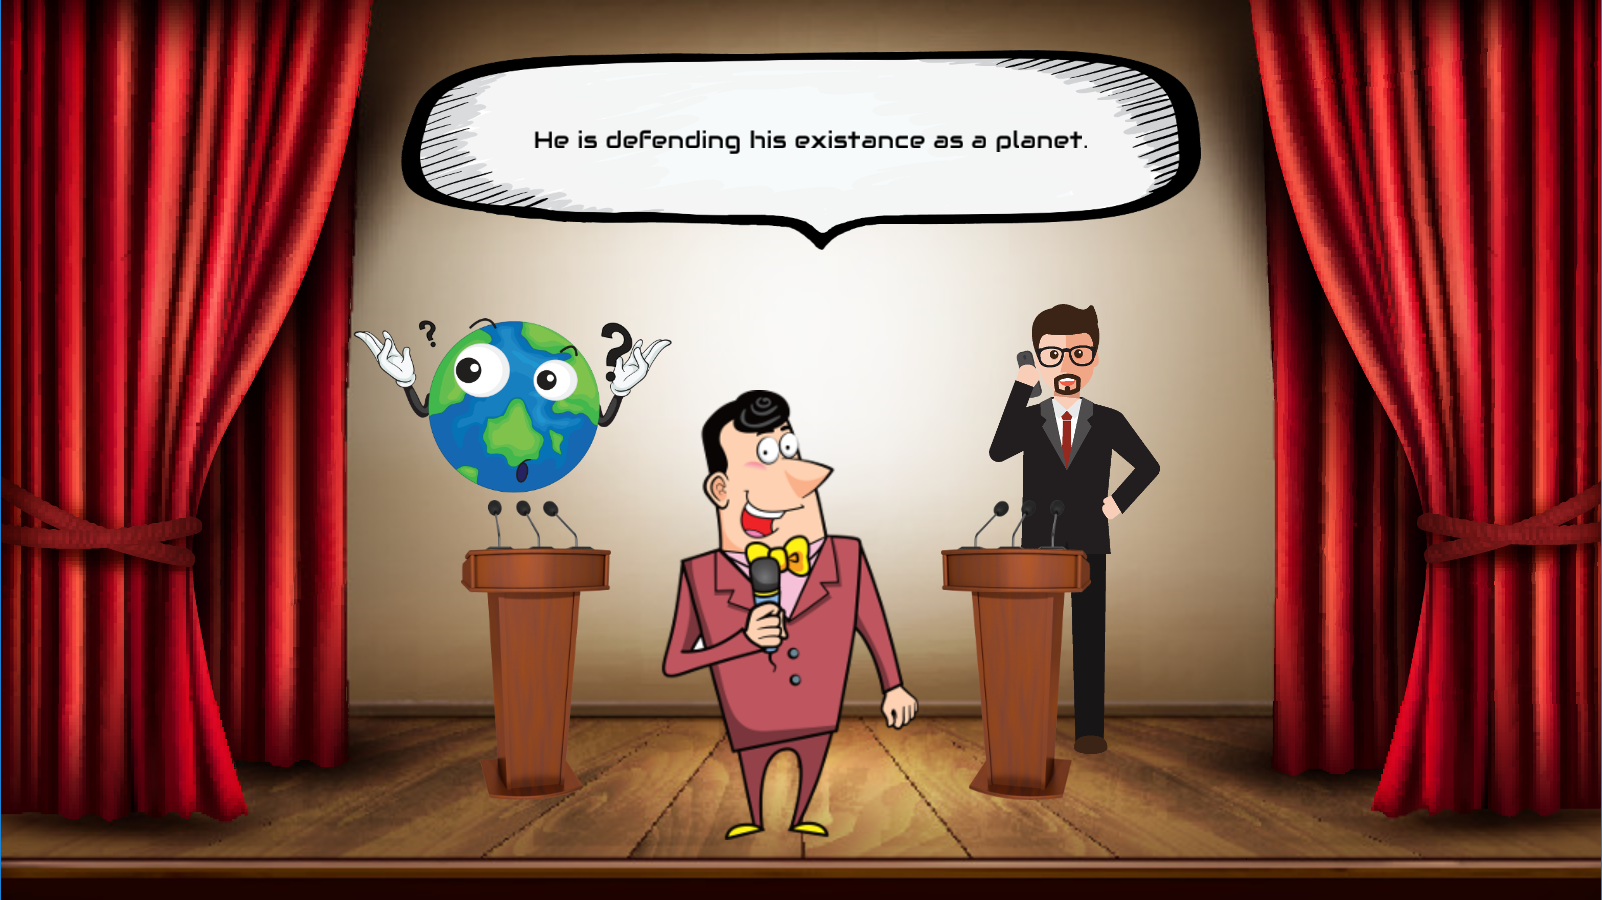
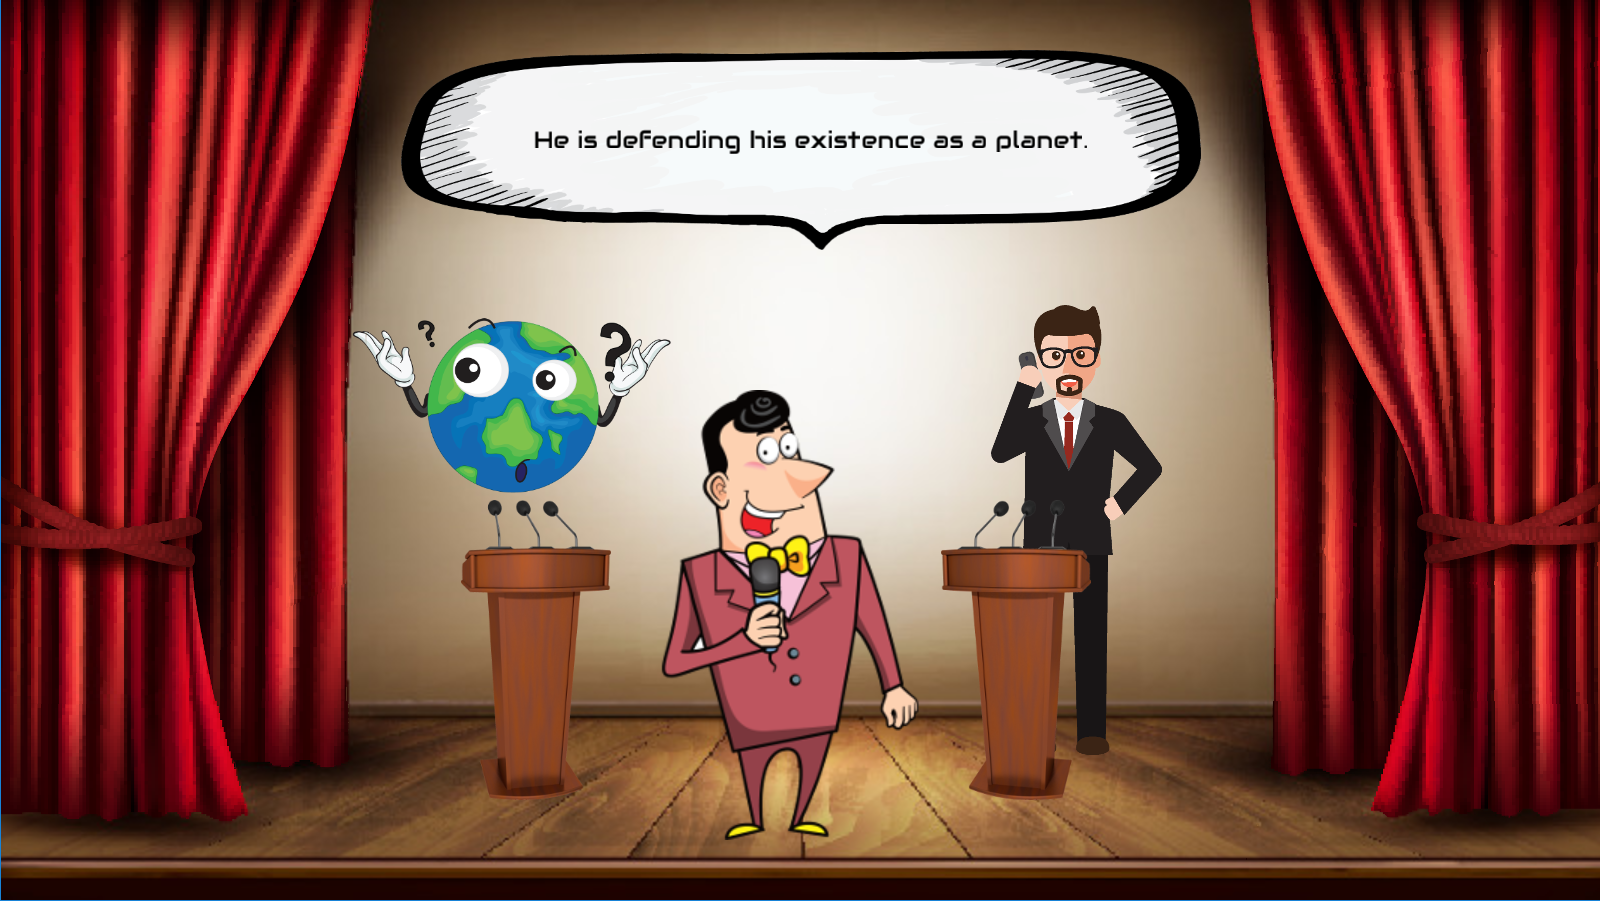
Fixed opening Change title name

diff --git a/AllPlanet/Transitions/Concrete/Opening.cs b/AllPlanet/Transitions/Concrete/Opening.cs
@@ -10,7 +10,7 @@ namespace AllPlanet.Transitions.Concrete
             new ModeratorEnters(),
             new ModeratorSays(ModeratorExpression.Mic, "Ladies and gentlemen, my esteemed guests, academics of the world..."),
             new ModeratorSays(ModeratorExpression.Left, "Up here on your left we have Stilles 33, the tiniest planet!"),
-            new ModeratorSays(ModeratorExpression.Mic, "He is defending his existance as a planet."),
+            new ModeratorSays(ModeratorExpression.Mic, "He is defending his existence as a planet."),
             new CrowdResponds(CrowdExpression.Cheer),
             new ModeratorSays(ModeratorExpression.Wink, "But you know what they say, it's not all about size."),
             new ModeratorSays(ModeratorExpression.Right, "And on your right we have Dr. Emerson."),

diff --git a/MonoDragons.Core/Engine/MainGame.cs b/MonoDragons.Core/Engine/MainGame.cs
@@ -30,6 +30,7 @@ namespace MonoDragons.Core.Engine
 
         protected override void Initialize()
         {
+            this.Window.Title = "Planet or Die!";
             IsMouseVisible = true;
             Resources.Init(this);
             _sprites = new SpriteBatch(GraphicsDevice);
